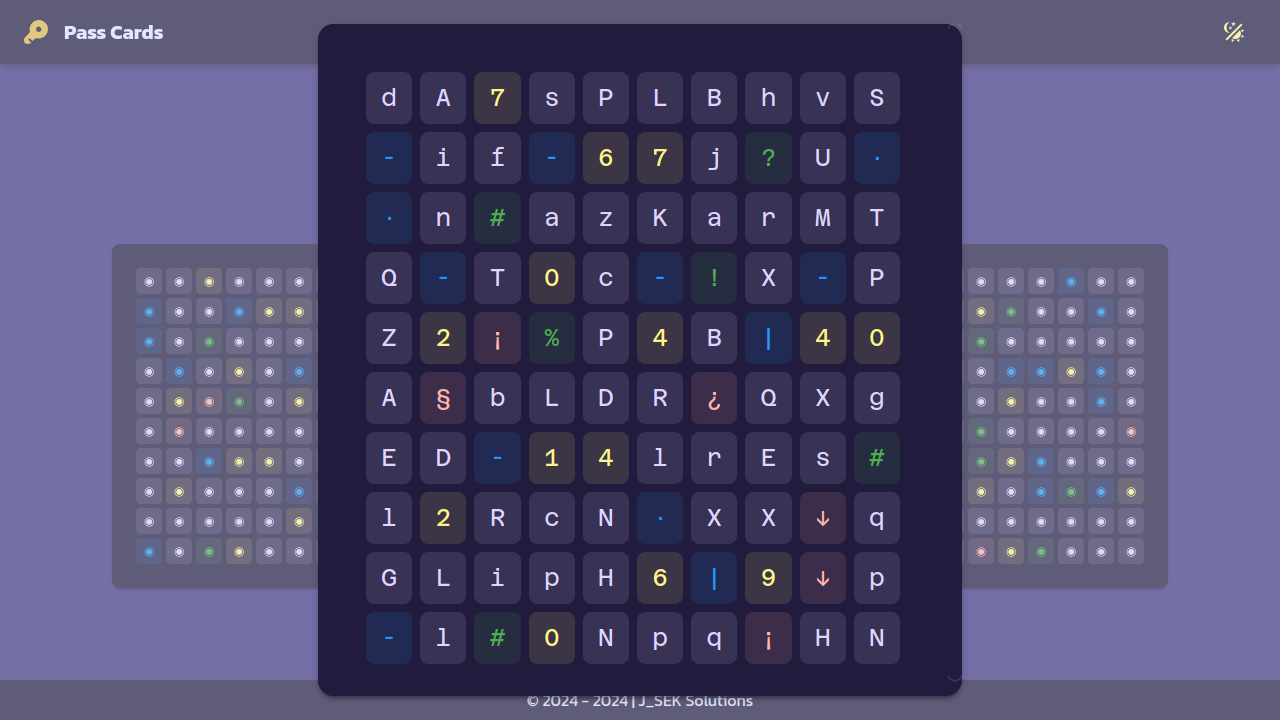
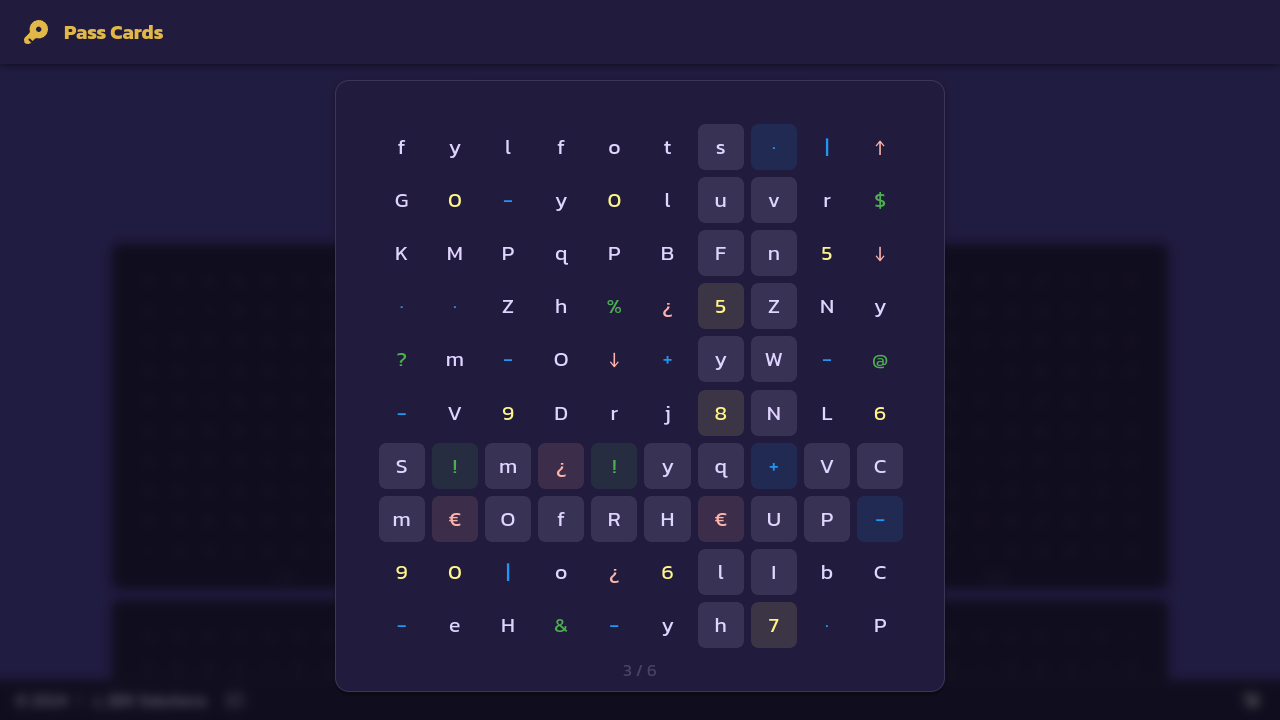
Fix card obstructed by app bar

diff --git a/app/pages/index.vue b/app/pages/index.vue
@@ -71,7 +71,7 @@ import { mdiArrowLeft, mdiArrowUp, mdiCogOutline, mdiRestore } from '@mdi/js'
 import { useWords } from '~/composables/words';
 import { waitFor } from '~/utils/timing';
 
-const { width: windowWidth } = useWindowSize()
+const { width: windowWidth, height: windowHeight } = useWindowSize()
 
 const username = useLocalStorage('username', '')
 const pin = ref('')
@@ -82,7 +82,10 @@ const selectedCard = ref<any | null>(null)
 const cardPreviews = ref([])
 const showCard = ref(false)
 const selectedCardVisible = refDebounced(showCard, 100)
-const zoomLevel = computed(() => windowWidth.value > 740 ? 2 : Math.max(1, windowWidth.value / 370))
+const zoomLevel = computed(() => {
+  const viewportSize = Math.min(windowWidth.value, windowHeight.value - 64)
+  return viewportSize > 740 ? 2 : Math.max(1, viewportSize / 370)
+})
 
 const setRowsOptions = [1, 2, 3, 4]
 const setRows = useLocalStorage('set-rows', 1)

diff --git a/app/assets/main.scss b/app/assets/main.scss
@@ -21,6 +21,10 @@ $default-font: 'Kanit', sans-serif;
   backdrop-filter: blur(5px);
 }
 
+.v-dialog .v-overlay__content:has(.pass-card) {
+  margin-top: 64px;
+}
+
 :root {
   --v-overlay-opacity: .5;
 }

diff --git a/app/components/pass-card.vue b/app/components/pass-card.vue
@@ -1,5 +1,5 @@
 <template lang="pug">
-v-card.pa-6(
+v-card.pa-6.pass-card(
   :width='cardSize * 30 - 4 + 48'
   v-bind='$attrs'
 )
